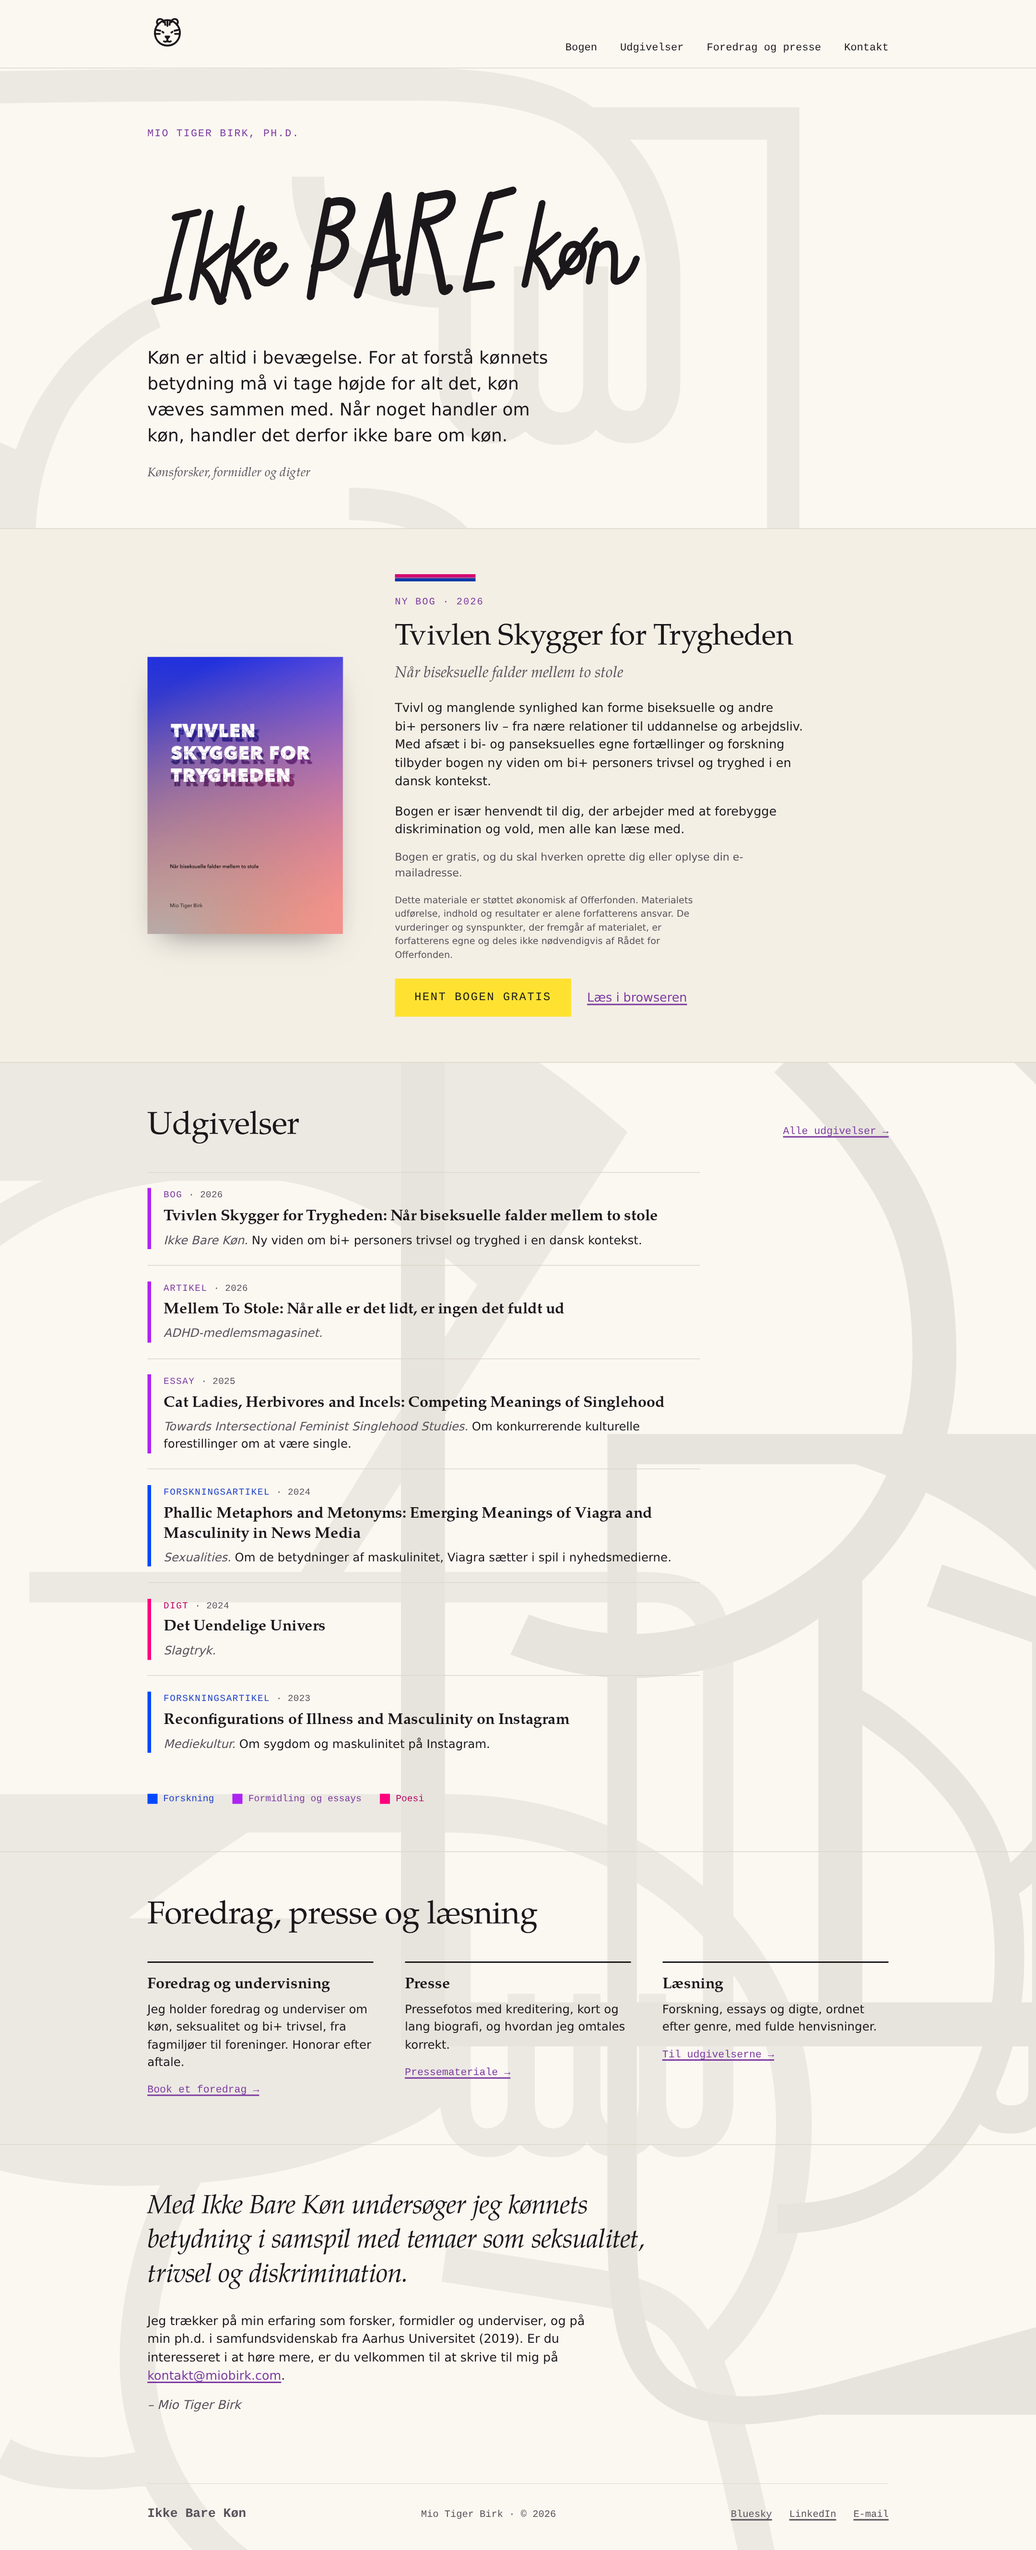
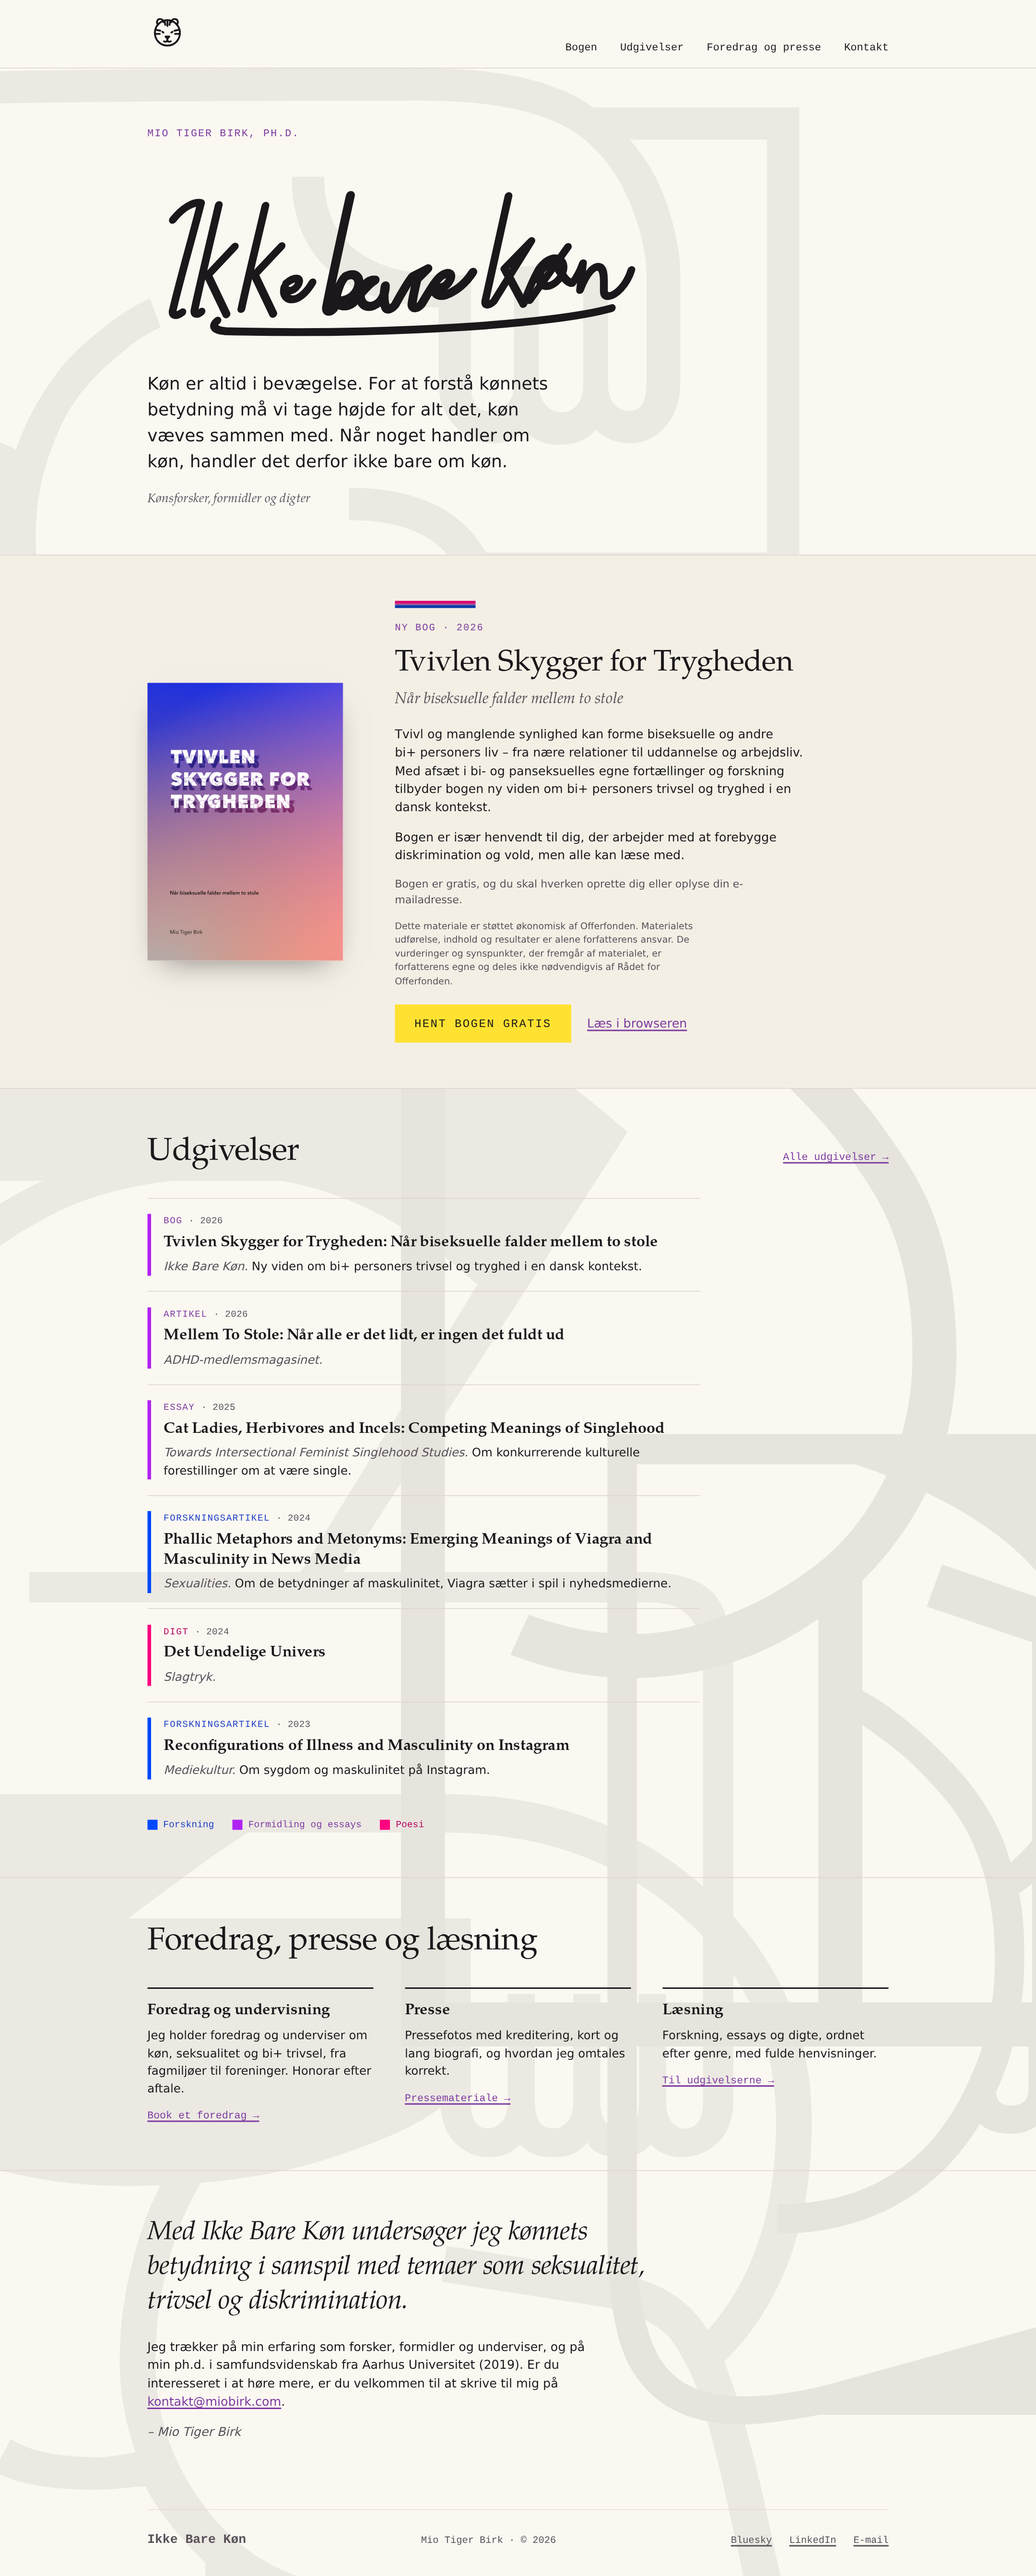
The tag written, not lettered
Ole's third correction: still not a tag. The previous passes were
print letters with flicks added; a tag is written. The hero title is
now ten strokes: whole words run continuously (bare and køn are each
one unbroken stroke, exit whip included), the pen lifts only where a
hand lifts (the k arms as separate cuts, the ø slash, the return
underline drawn right to left under the whole line). Legibility was
tuned over three drafts: strategic pen lifts between the I and kke,
the b bowl anchored against its stem, a sharp r flag. The emphasis on
bare stays a change of style, now larger, looser and pressed harder
rather than switching to capitals.

Claude-Session: https://claude.ai/code/session_01J3ibStbM354Uyysr7SDB7m

diff --git a/design/directions/retning-7-overlappet.html b/design/directions/retning-7-overlappet.html
@@ -110,12 +110,15 @@ a:focus-visible{outline:2.5px solid var(--ink);outline-offset:3px}
 @keyframes fesseSlow{to{transform:translate3d(0,18rem,0)}}
 @keyframes fesseMid{to{transform:translate3d(0,44rem,0)}}
 @media (prefers-reduced-motion: reduce){.fesse-layer{animation:none!important}}
-/* The hero title: Ikke bare køn written as a tag, one thick black
-   marker drawn on quickly at load. Pure SVG and CSS, no JavaScript:
-   each path carries pathLength="1", so a dash offset animated 1 to 0
-   draws the stroke; --d is its duration, --t its start, sequenced
-   like a fast hand. The emphasis on "bare" is a change of style: the
-   script hand switches to pressed capitals, nothing is added. */
+/* The hero title: Ikke bare køn written as a handstyle tag with a
+   thick black marker, drawn on quickly at load. Ten strokes: whole
+   words run continuously with the pen lifting only where a real hand
+   lifts (the k arms, the slash of the oe, the return underline).
+   Pure SVG and CSS, no JavaScript: each path carries pathLength="1",
+   so a dash offset animated 1 to 0 draws the stroke; --d is its
+   duration, --t its start. The emphasis on "bare" is a change of
+   style: the word is written in one unbroken stroke, larger, looser
+   and pressed harder, nothing is added. */
 .hero{position:relative;overflow:hidden}
 .tagline{display:block;width:min(46rem,94%);height:auto;transform:rotate(-2deg) skewX(-8deg);margin-left:-.5rem}
 .tagline path{fill:none;stroke:var(--ink);stroke-width:13;stroke-linecap:round;stroke-linejoin:round;
@@ -283,37 +286,59 @@ footer .flinks{display:flex;gap:1.5rem}
   <section class="hero">
     <div class="wrap">
       <p class="kicker">Mio Tiger Birk, ph.d.</p>
-      <h1><span class="sr-only">Ikke bare køn</span><svg class="tagline" viewBox="0 0 990 300" aria-hidden="true" focusable="false" xmlns="http://www.w3.org/2000/svg">
+      <h1><span class="sr-only">Ikke bare køn</span><svg class="tagline" viewBox="0 0 880 310" aria-hidden="true" focusable="false" xmlns="http://www.w3.org/2000/svg">
         <g>
-          <path pathLength="1" style="--d:.04s;--t:0s" d="M 56 90 L 98 82"/>
-          <path pathLength="1" style="--d:.08s;--t:.05s" d="M 78 86 C 68 138 60 196 56 238"/>
-          <path pathLength="1" style="--d:.04s;--t:.14s" d="M 34 246 L 78 238"/>
-          <path pathLength="1" style="--d:.06s;--t:.19s" d="M 120 84 C 114 136 108 196 104 240"/>
-          <path pathLength="1" style="--d:.07s;--t:.26s" d="M 158 148 C 140 166 124 180 112 188 C 124 192 142 216 152 244 C 154 250 158 252 162 248"/>
-          <path pathLength="1" style="--d:.06s;--t:.34s" d="M 178 78 C 172 132 166 194 162 238"/>
-          <path pathLength="1" style="--d:.07s;--t:.41s" d="M 214 142 C 196 162 182 176 170 184 C 182 190 198 214 208 242"/>
-          <path pathLength="1" style="--d:.09s;--t:.49s" d="M 226 176 C 244 168 252 156 244 150 C 234 144 222 156 220 176 C 218 200 228 222 246 218 C 256 214 268 202 272 188"/>
+          <path pathLength="1" style="--d:.1s;--t:0s" d="M 44 84 C 58 64 76 54 88 58 C 78 122 66 186 60 232 C 58 242 66 246 76 238"/>
+          <path pathLength="1" style="--d:.07s;--t:.11s" d="M 118 62 C 108 138 100 196 96 234 C 95 242 102 244 108 238"/>
+          <path pathLength="1" style="--d:.07s;--t:.19s" d="M 152 132 L 112 178 L 150 244"/>
+          <path pathLength="1" style="--d:.07s;--t:.27s" d="M 196 66 C 186 142 178 198 174 236"/>
+          <path pathLength="1" style="--d:.07s;--t:.35s" d="M 230 134 L 190 180 L 228 246"/>
+          <path pathLength="1" style="--d:.07s;--t:.43s" d="M 244 196 C 258 184 270 188 264 200 C 258 210 246 212 242 202 C 240 216 250 226 264 222 C 274 218 282 208 288 196"/>
         </g>
-        <g class="em" transform="translate(34 0)">
-          <path pathLength="1" style="--d:.07s;--t:.61s" d="M 306 70 C 300 128 294 192 292 246"/>
-          <path pathLength="1" style="--d:.12s;--t:.69s" d="M 306 74 C 338 64 358 78 350 100 C 344 116 322 124 306 124 C 328 126 350 136 346 160 C 341 188 314 198 294 190"/>
-          <path pathLength="1" style="--d:.09s;--t:.82s" d="M 380 246 L 416 64 L 448 240 C 449 246 454 246 458 240"/>
-          <path pathLength="1" style="--d:.04s;--t:.92s" d="M 392 190 L 446 180"/>
-          <path pathLength="1" style="--d:.06s;--t:.97s" d="M 480 66 C 476 128 472 196 470 244"/>
-          <path pathLength="1" style="--d:.09s;--t:1.04s" d="M 480 70 L 524 64 C 538 64 542 78 534 94 C 528 106 508 114 488 116 C 504 130 524 190 538 240 C 540 247 546 247 550 240"/>
-          <path pathLength="1" style="--d:.06s;--t:1.14s" d="M 610 70 C 596 128 588 196 584 242"/>
-          <path pathLength="1" style="--d:.03s;--t:1.21s" d="M 610 72 L 650 62"/>
-          <path pathLength="1" style="--d:.03s;--t:1.25s" d="M 596 152 L 634 144"/>
-          <path pathLength="1" style="--d:.03s;--t:1.29s" d="M 584 240 L 628 236"/>
+        <g class="em">
+          <path pathLength="1" style="--d:.35s;--t:.55s" d="M 336 54 C 328 122 320 192 316 236
+             C 315 245 322 248 328 241
+             C 330 214 334 196 342 188
+             C 358 180 370 192 364 210
+             C 358 226 340 232 326 226
+             C 336 238 350 240 360 232
+             C 372 216 382 202 392 196
+             C 380 194 372 204 370 218
+             C 370 234 382 242 394 238
+             C 406 234 412 220 410 206
+             C 409 220 410 232 414 240
+             C 417 247 424 246 430 238
+             C 440 216 448 200 454 192
+             L 478 180 L 462 197
+             C 460 212 458 226 458 238
+             C 460 246 468 246 474 238
+             C 484 218 492 202 500 194
+             C 512 184 522 190 516 202
+             C 510 214 496 216 492 206
+             C 490 220 500 228 514 224
+             C 530 218 544 206 554 188"/>
         </g>
-        <g transform="translate(60 0)">
-          <path pathLength="1" style="--d:.06s;--t:1.36s" d="M 682 88 C 676 140 670 198 666 238"/>
-          <path pathLength="1" style="--d:.07s;--t:1.43s" d="M 718 148 C 700 166 686 178 674 186 C 686 192 702 216 712 244"/>
-          <path pathLength="1" style="--d:.08s;--t:1.51s" d="M 762 174 C 752 160 736 166 732 184 C 728 204 740 222 756 216 C 770 210 774 190 766 176"/>
-          <path pathLength="1" style="--d:.04s;--t:1.6s" d="M 786 142 L 716 240"/>
-          <path pathLength="1" style="--d:.05s;--t:1.65s" d="M 792 168 C 788 192 786 214 786 236"/>
-          <path pathLength="1" style="--d:.08s;--t:1.71s" d="M 788 190 C 796 172 812 162 822 172 C 830 180 830 208 832 232 C 833 242 846 240 858 226 C 864 218 868 208 870 198"/>
+        <g>
+          <path pathLength="1" style="--d:.3s;--t:.95s" d="M 600 64 C 592 136 584 198 580 234
+             C 578 244 586 246 594 238
+             L 646 140
+             L 606 184
+             L 644 244
+             C 652 214 658 198 664 186
+             C 674 170 688 166 698 174
+             C 708 182 706 200 694 210
+             C 682 220 668 216 666 202
+             C 664 188 676 178 690 180
+             C 702 196 712 212 722 212
+             C 730 200 734 188 736 180
+             C 736 194 736 210 736 224
+             C 744 196 756 182 766 188
+             C 774 194 774 212 776 228
+             C 778 240 792 238 804 224
+             C 812 214 816 204 818 194"/>
+          <path pathLength="1" style="--d:.05s;--t:1.27s" d="M 708 152 L 654 238"/>
         </g>
+        <path pathLength="1" style="--d:.28s;--t:1.35s" d="M 792 256 C 700 280 420 288 152 272 C 132 270 126 262 136 254"/>
       </svg></h1>
       <p class="standfirst">Køn er altid i bevægelse. For at forstå kønnets
       betydning må vi tage højde for alt det, køn væves sammen med. Når noget

diff --git a/design/TYPOGRAPHY-COLOUR.md b/design/TYPOGRAPHY-COLOUR.md
@@ -269,21 +269,24 @@ start) sequence the strokes like a writing hand. No JavaScript, so
 the drawing runs everywhere, including surfaces that strip scripts.
 Static final state under prefers-reduced-motion.
 
-- **The hero title is a tag.** "Ikke bare køn" hand-lettered as a
-  quick thick-marker tag (stroke 13 in a 990-unit viewBox), drawn in
-  roughly 1.8 seconds. Ole judged the first pass too cute, so the
-  hand was redrawn against the handstyle literature (consistent hard
-  lean, sharp points, long connected flourishes, rhythm over
-  neatness): the whole tag now leans through rotate(-2deg)
-  skewX(-8deg), the capital I carries slashed serifs, the k legs and
-  the R kick end in blade flicks that overshoot the baseline, the ø
-  slash runs far beyond the bowl, and the n exits in a long whip.
-  The emphasis that used to be the purple mark under "bare" is a
-  change of style inside the lettering itself: the script hand
-  switches to pressed capitals (stroke 15) for BARE and back.
-  Nothing is added, the writing just leans on the word. The h1 keeps
-  a visually-hidden text node, so semantics and search read "Ikke
-  bare køn" as before.
+- **The hero title is a tag.** "Ikke bare køn" written as a
+  handstyle tag (stroke 13 in an 880-unit viewBox, leaning through
+  rotate(-2deg) skewX(-8deg)), drawn in about 1.6 seconds. It took
+  three of Ole's corrections to get here: the first pass was neat
+  print letters (too cute), the second was print letters with flicks
+  (still not a tag). What finally reads as a tag is that the words
+  are WRITTEN, not lettered: ten strokes in total, whole words
+  running continuously with the pen lifting only where a real hand
+  lifts (the k arms as separate "<" cuts, the slash of the ø, the
+  return underline). "bare" is one unbroken stroke. "køn" is one
+  unbroken stroke including the exit whip off the n. The underline
+  is the hand coming back right to left under the whole line. The
+  lesson for future hand-drawn work: tag-ness lives in stroke
+  economy and connection, not in adding flicks to print letters.
+  The emphasis on "bare" is a change of style inside the writing:
+  the word is larger, looser and pressed harder (stroke 15).
+  Nothing is added. The h1 keeps a visually-hidden text node, so
+  semantics and search read "Ikke bare køn" as before.
 - **No wordmark in the masthead.** In its place a very simple tiger
   (her middle name) in the same pen. The first pass read as a cat:
   pointed ears and whiskers are cat signals. The redraw uses the
